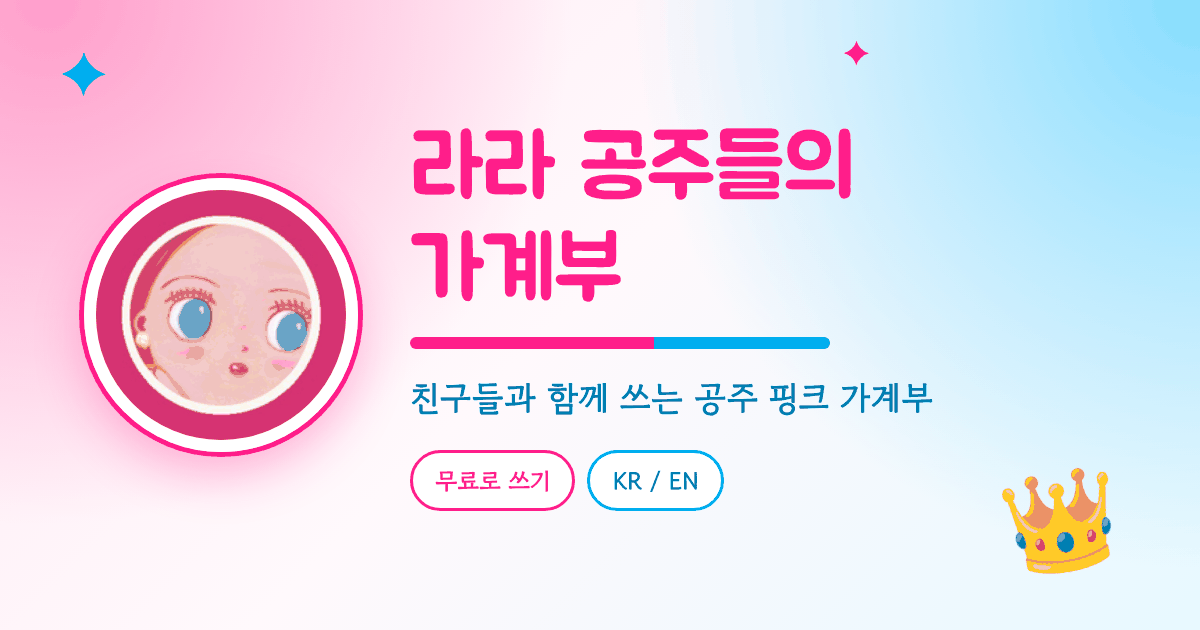
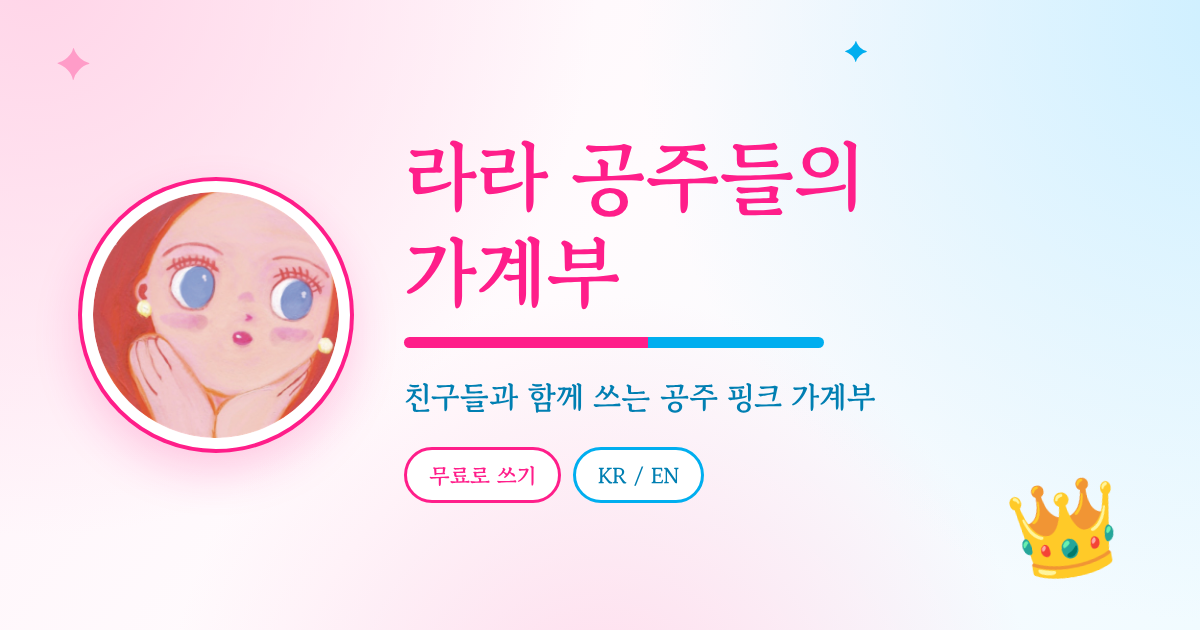
라라 공주들의 가계부: 제목·섹션 감성 명조 볼드(Gowun Batang 700) + 연핑크·연하늘 배경 + 동그라미 얼굴 복원

diff --git a/planner/index.html b/planner/index.html
@@ -21,7 +21,7 @@
 <meta name="mobile-web-app-capable" content="yes">
 <link rel="preconnect" href="https://fonts.googleapis.com">
 <link rel="preconnect" href="https://fonts.gstatic.com" crossorigin>
-<link href="https://fonts.googleapis.com/css2?family=Jua&family=Gowun+Dodum&display=swap" rel="stylesheet">
+<link href="https://fonts.googleapis.com/css2?family=Gowun+Batang:wght@400;700&family=Gowun+Dodum&display=swap" rel="stylesheet">
 <style>
 :root{
   --pink:#FF1E8A;
@@ -45,12 +45,12 @@ html,body{margin:0;padding:0}
 body{
   font-family:'Gowun Dodum',-apple-system,BlinkMacSystemFont,'Apple SD Gothic Neo','Malgun Gothic',sans-serif;
   color:var(--ink);
-  background-color:#FFF7FB;
+  background-color:#FFFBFD;
   background-image:
-    radial-gradient(circle at 6% 0%, #FFA8D1 0%, rgba(255,168,209,0) 26%),
-    radial-gradient(circle at 97% 0%, #93E1FF 0%, rgba(147,225,255,0) 24%),
-    radial-gradient(circle at 50% 100%, #FFB0D5 0%, rgba(255,176,213,0) 26%),
-    linear-gradient(180deg,#FFF0F7 0%,#FFFAFC 32%,#F1FBFF 62%,#FFF4F9 100%);
+    radial-gradient(circle at 7% 0%, #FFD8EA 0%, rgba(255,216,234,0) 36%),
+    radial-gradient(circle at 96% 1%, #D2EFFF 0%, rgba(210,239,255,0) 34%),
+    radial-gradient(circle at 50% 100%, #FFDCEB 0%, rgba(255,220,235,0) 38%),
+    linear-gradient(180deg,#FFF3F9 0%,#FFFAFD 28%,#F4FBFF 60%,#FFF6FB 100%);
   background-repeat:no-repeat;
   background-size:100% 100%;
   min-height:100vh;
@@ -74,8 +74,8 @@ body{
   background:var(--pink);
 }
 h1{
-  font-family:'Jua',-apple-system,sans-serif;
-  font-weight:400;font-size:clamp(26px,7.9vw,34px);line-height:1.28;letter-spacing:.2px;
+  font-family:'Gowun Batang','Apple SD Gothic Neo',serif;
+  font-weight:700;font-size:clamp(23px,7.1vw,30px);line-height:1.34;letter-spacing:-.2px;
   margin:8px 0 0;color:var(--pink);
   word-break:keep-all;
 }
@@ -123,10 +123,10 @@ body.lang-en h1{font-size:clamp(22px,6.6vw,29px);line-height:1.22}
 }
 .mbtn:active{transform:scale(.94);background:#FFEAF4}
 .mlabel{
-  min-width:158px;text-align:center;font-family:'Jua',sans-serif;font-weight:400;
-  font-size:24px;color:var(--pink);letter-spacing:.3px;line-height:1;
+  min-width:158px;text-align:center;font-family:'Gowun Batang',serif;font-weight:700;
+  font-size:20px;color:var(--pink);letter-spacing:0;line-height:1.2;
 }
-body.lang-en .mlabel{font-size:21px;min-width:170px}
+body.lang-en .mlabel{font-size:18px;min-width:170px}
 
 /* ── cards ── */
 .card{
@@ -134,9 +134,9 @@ body.lang-en .mlabel{font-size:21px;min-width:170px}
   padding:14px 14px 15px;box-shadow:var(--shadow);margin-bottom:15px;
 }
 .card-head{display:flex;align-items:center;justify-content:space-between;gap:8px;margin-bottom:12px}
-.card-title{font-family:'Jua',sans-serif;font-weight:400;font-size:22px;color:var(--pink);letter-spacing:.3px;line-height:1;display:flex;align-items:center;gap:4px;min-width:0}
+.card-title{font-family:'Gowun Batang',serif;font-weight:700;font-size:18.5px;color:var(--pink);letter-spacing:-.1px;line-height:1.25;display:flex;align-items:center;gap:4px;min-width:0}
 .card-title .em{font-family:inherit;font-size:16px}
-body.lang-en .card-title{font-size:19px}
+body.lang-en .card-title{font-size:16.5px}
 .card-sub{font-size:11px;color:var(--sky-ink);font-weight:700;white-space:nowrap}
 
 /* ── form ── */
@@ -165,12 +165,12 @@ body.lang-en .card-title{font-size:19px}
 body.income-mode .field.money input{color:var(--sky-ink);border-color:var(--sky-line)}
 .addbtn{
   width:100%;border:0;border-radius:15px;padding:13px 10px;margin-top:5px;cursor:pointer;
-  font-family:'Jua',sans-serif;font-weight:400;font-size:22px;letter-spacing:.3px;color:#fff;
+  font-family:'Gowun Batang',serif;font-weight:700;font-size:19px;letter-spacing:.1px;color:#fff;
   background:var(--pink);
   box-shadow:0 10px 22px rgba(255,30,138,.34);
   transition:transform .12s ease, box-shadow .12s ease;
 }
-body.lang-en .addbtn{font-size:19px}
+body.lang-en .addbtn{font-size:17px}
 .addbtn:active{transform:translateY(1px) scale(.99);box-shadow:0 6px 14px rgba(255,30,138,.32)}
 
 /* ── category bars ── */
@@ -248,8 +248,8 @@ body.lang-en .fix .famt{flex:0 0 84px}
 .promo .crown{font-size:24px;line-height:1;flex:0 0 46px;width:46px;height:46px;display:flex;align-items:center;justify-content:center;border-radius:50%;background:var(--sky);border:2px solid #fff;box-shadow:0 4px 10px rgba(0,174,239,.28)}
 .promo .body{flex:1 1 auto;min-width:0}
 .promo .kick{display:block;font-size:9.5px;letter-spacing:.4px;color:var(--sky-ink);font-weight:700}
-.promo .ttl{display:block;font-family:'Jua',sans-serif;font-weight:400;font-size:19px;line-height:1.3;color:var(--pink-ink);margin:2px 0 3px;word-break:keep-all}
-body.lang-en .promo .ttl{font-size:17px}
+.promo .ttl{display:block;font-family:'Gowun Batang',serif;font-weight:700;font-size:16.5px;line-height:1.4;color:var(--pink-ink);margin:2px 0 3px;word-break:keep-all}
+body.lang-en .promo .ttl{font-size:15px}
 .promo .meta{display:block;font-size:11px;color:var(--muted);font-weight:700}
 .promo .meta .pages{color:var(--sky-ink)}
 .promo .meta b{color:var(--pink-deep)}
@@ -294,7 +294,7 @@ footer .sky{color:var(--sky-ink);font-weight:700}
     <span class="spark s1">🌸</span>
     <span class="spark s2">✦</span>
     <span class="spark s3">💗</span>
-    <img class="avatar" src="apple-touch-icon.png" alt="Lala">
+    <img class="avatar" src="lala_face.png" alt="Lala">
     <h1 data-i18n="app.title">라라 공주들의 가계부</h1>
     <div class="sub" data-i18n="app.sub">오늘 쓴 돈도, 모은 돈도 반짝반짝 기록해요 👑</div>
   </header>
